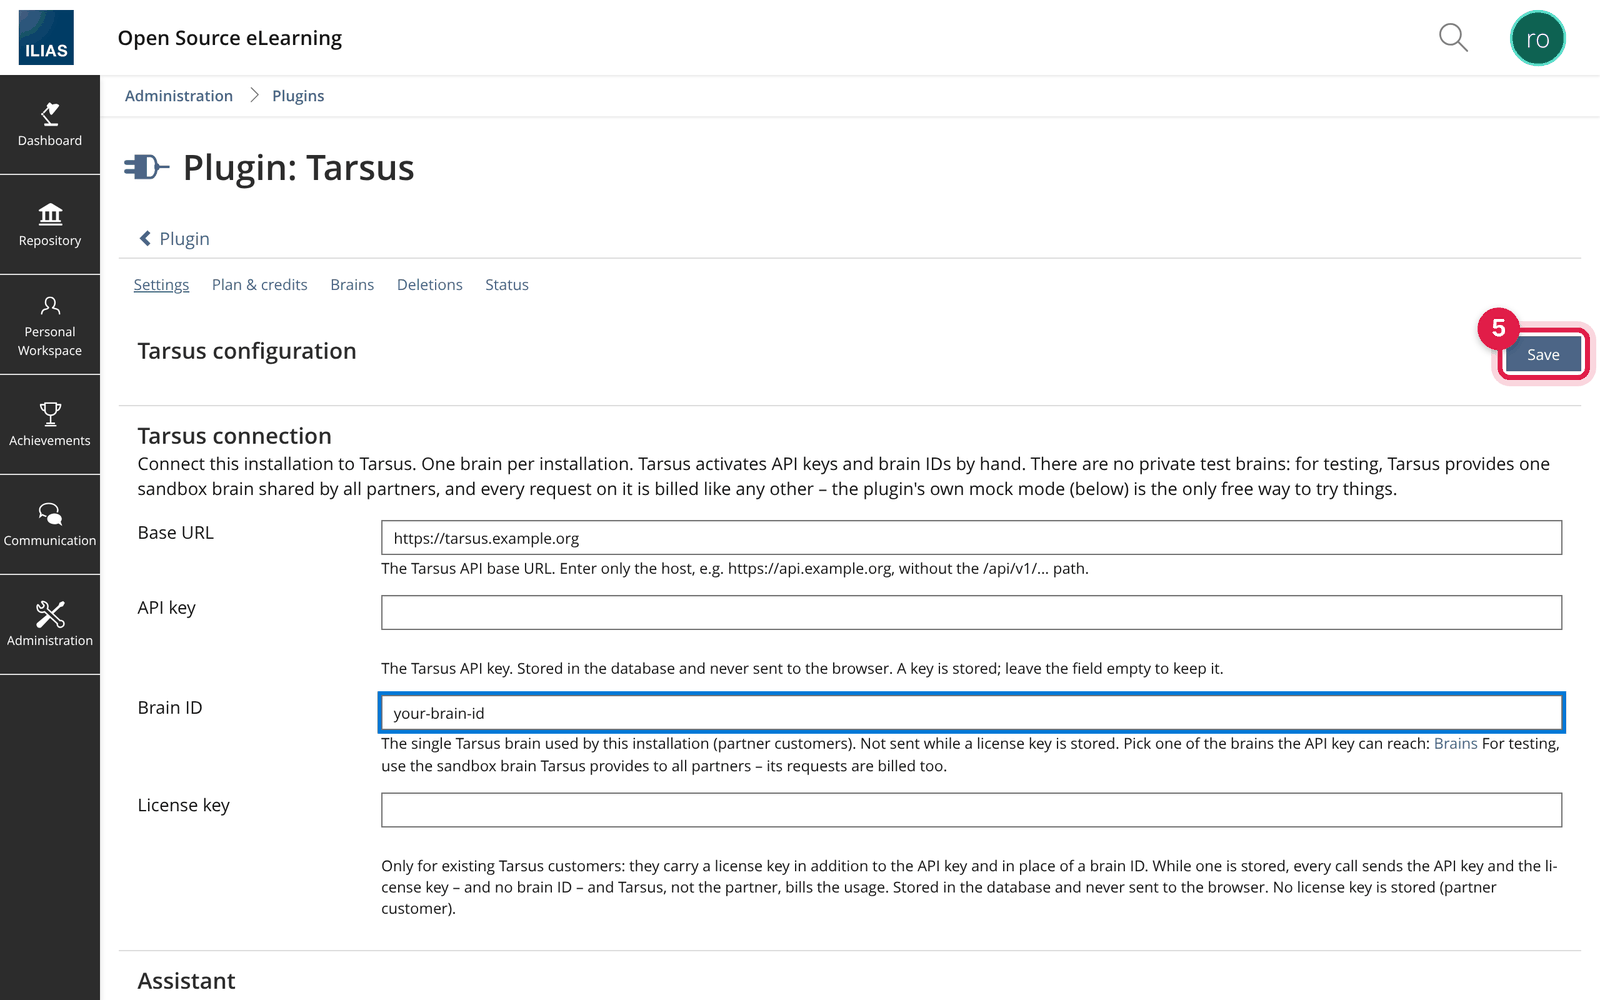
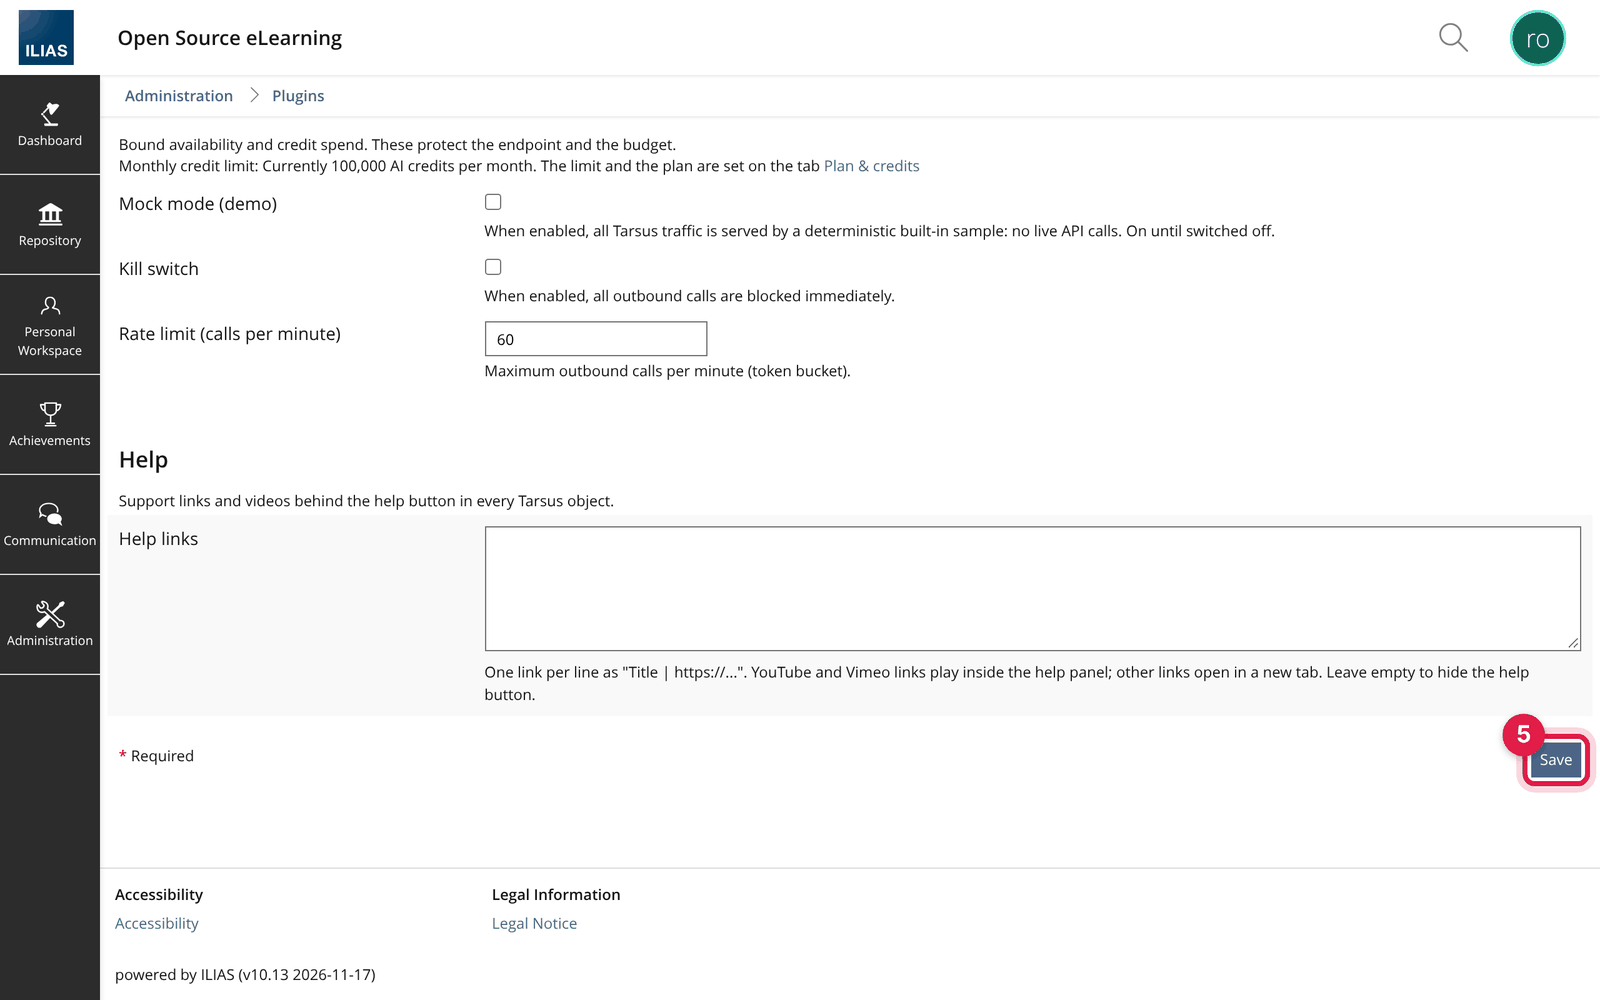
Version 2.2.0: changelog, README, guide pictures; the class loader covers the new classes
- plugin.php: version 2.2.0. CHANGELOG: the 2.2.0 section and the
  missing link references of 2.1.2 and 2.2.0.
- src/autoload.php: the plugin's own class loader - the safety net for
  files that arrive before "composer du" rebuilds ILIAS's class map -
  now also loads the plugin's ILIAS classes in classes/, among them the
  new upload handler and stakeholder of the assistant's picture. Without
  it, an update copied without "composer du" broke the plugin
  configuration ("Sorry, an error occurred") and Plan & credits (HTTP
  500); with it, every page works and only the picture field waits for
  "composer du". Class names other than letters and digits are refused.
- README: guide steps 9, 10 and 15 point to Save at the end of the form
  (ILIAS 11 and 12 show it only there); two new pictures for Save on
  Plan & credits and in the object's settings; the pictures of the
  changed forms retaken on ILIAS 10 (placeholders only, no usage
  figures). The coach's confirmation dialogs and Esc under
  Accessibility, deleted accounts and PRIVACY.md under Data and
  privacy, "composer du" when updating by hand.

Checked: update from the published 2.1.2 zip to 2.2.0 on ILIAS 9, 10,
11 and 12 - first without "composer du" (configuration, plan, object
settings, coach and reset work; the picture field appears after
"composer du"), then "composer du", Update and Refresh Languages
(database at 2.2.0, no PHP messages from the plugin's files). PHPStan
[…]

diff --git a/src/autoload.php b/src/autoload.php
@@ -26,4 +26,20 @@ if (!defined('TARSUS_ILIAS_AUTOLOAD')) {
             require_once $file;
         }
     });
+
+    // The same safety net for the plugin's ILIAS classes in classes/
+    // (class.ilTarsus*.php, class.ilObjTarsus*.php).
+    spl_autoload_register(static function (string $class): void {
+        if (strncmp($class, 'ilTarsus', 8) !== 0 && strncmp($class, 'ilObjTarsus', 11) !== 0) {
+            return;
+        }
+        $letters = 'abcdefghijklmnopqrstuvwxyzABCDEFGHIJKLMNOPQRSTUVWXYZ0123456789';
+        if (strspn($class, $letters) !== strlen($class)) {
+            return;
+        }
+        $file = dirname(__DIR__) . '/classes/class.' . $class . '.php';
+        if (is_file($file)) {
+            require_once $file;
+        }
+    });
 }

diff --git a/plugin.php b/plugin.php
@@ -12,7 +12,7 @@
 $id = 'xtar';
 
 // Plugin version.
-$version = '2.1.2';
+$version = '2.2.0';
 
 // ILIAS releases this version runs on.
 $ilias_min_version = '9.0';

diff --git a/README.md b/README.md
@@ -240,17 +240,19 @@ Everything from here happens in your web browser.
 
 > You are an existing Tarsus customer and got a *license key*? Put it into **License key**, just below, and leave the brain ID empty.
 
-**8.** Scroll down a little and remove the tick at **Mock mode (demo)** (4) *(Mock-Modus (Demo))*. While it is ticked, the coach only shows sample answers.
+**8.** Scroll down and remove the tick at **Mock mode (demo)** (4) *(Mock-Modus (Demo))*. While it is ticked, the coach only shows sample answers.
 
 ![Remove the tick at Mock mode](docs/screenshots/guide/b08_demo_off_save.png)
 
-**9.** Scroll back up and click **Save** (5) *(Speichern)*.
+**9.** Click **Save** (5) *(Speichern)* at the end of the form.
 
-![Save](docs/screenshots/guide/b08b_save.png)
+![Save at the end of the form](docs/screenshots/guide/b08b_save.png)
 
-**10.** Click **Plan & credits** (1) *(Plan & Credits)*, choose the package of your Tarsus contract (2) and click **Save** (3).
+**10.** Click **Plan & credits** (1) *(Plan & Credits)* and choose the package of your Tarsus contract (2). Then click **Save** (3) at the end of the form.
 
 ![Choose the package](docs/screenshots/guide/b09_plan.png)
+
+![Save at the end of the form](docs/screenshots/guide/b09b_save.png)
 
 **11.** Click **Status** (1), then **Test connection** (2) *(Verbindung testen)*. A green message (3) means: Tarsus is connected. A red message? See [If something does not work](#if-something-does-not-work).
 
@@ -270,9 +272,11 @@ The plugin is ready. Now give a course its coach.
 
 ![Name, then Add Tarsus](docs/screenshots/guide/b13_title.png)
 
-**15.** Click **Settings** (1) *(Einstellungen)*, tick **Online** (2) and click **Save** (3). Learners cannot see the coach until you do this.
+**15.** Click **Settings** (1) *(Einstellungen)* and tick **Online** (2). Then click **Save** (3) at the end of the form. Learners cannot see the coach until you do this.
 
 ![Switch it online](docs/screenshots/guide/b14_online.png)
+
+![Save at the end of the form](docs/screenshots/guide/b14b_save.png)
 
 **16.** Click **Materials** (1) *(Materialien)*. You see the files, links and pages of the course. Click **Index** (2) *(Indexieren)* next to each one the coach should learn from.
 
@@ -306,7 +310,7 @@ In ILIAS 9 the file is `cron/cron.php` instead of `cli/cron.php`. Without the jo
 
 ## Updating
 
-1. Run the command from [part 1](#part-1--put-the-plugin-on-the-server) again. It keeps the version you have in `/tmp` and puts the newest one in its place.
+1. Run the command from [part 1](#part-1--put-the-plugin-on-the-server) again. It keeps the version you have in `/tmp` and puts the newest one in its place. Updating by hand? Do steps 1 to 4 under *by hand* in part 1 again – `composer du` (step 4) belongs to every update.
 2. In ILIAS, open **Administration › Extending ILIAS › Plugins**, click the small arrow next to **Tarsus** and choose **Update** *(Aktualisieren)*. Click the arrow again and choose **Refresh Languages** *(Sprachen neu laden)*.
 
 Your settings, the indexed material and the learners' figures are kept. The [changelog](CHANGELOG.md) lists what changed in each version.
@@ -401,7 +405,7 @@ The coach works **without a mouse** and **with screen readers** (NVDA, JAWS, Voi
 | <kbd>Shift</kbd>+<kbd>Enter</kbd> | A new line in a question. |
 | <kbd>Space</kbd> | Presses a button, ticks a checkbox. |
 | Arrow keys | Choose an answer option of a question. |
-| <kbd>Esc</kbd> | Closes a side panel, a picture or the help. In the input field: drops the *Ask about this* reference. |
+| <kbd>Esc</kbd> | Closes a side panel, a picture or the help; in a confirmation dialog, it cancels. In the input field: drops the *Ask about this* reference. |
 
 **What a screen reader says**
 
@@ -412,6 +416,7 @@ The coach works **without a mouse** and **with screen readers** (NVDA, JAWS, Voi
 - **Check** puts the focus on the verdict – "Correct.", "Not correct." or "Partly correct: 60 %" – and reads the feedback, the experience points and the result. Right and wrong are words and a ✓ or ✗, never a colour alone. Pressing **Check** with nothing chosen says so and puts the focus on the first open field.
 - In a learning unit, the focus goes to the slide's title and the slide is read. **Next** says "Slide 2 of 5" and reads the slide; the focus stays on the button.
 - Side panels (sources, settings, evaluation, history) are dialogs: the focus moves in, <kbd>Tab</kbd> stays inside, <kbd>Esc</kbd> closes them and the focus returns to the button that opened them. Pictures and enlarged pages are dialogs too.
+- Before a step that cannot be undone – ending a running live conversation by switching the mode, removing material on the *Materials* tab – the coach asks in a dialog: the focus starts on **Cancel** *(Abbrechen)*, <kbd>Tab</kbd> stays inside, <kbd>Esc</kbd> cancels and the focus returns to the button. **Reset chat history** asks in ILIAS's own confirmation dialog.
 - While Tarsus answers, the input field keeps the focus; you never lose your place.
 
 **For teachers:** switch on **Accessible content** *(Barrierefreie Inhalte)* in the object's settings. Tarsus then describes in words what pictures, diagrams and simulations show, so learners who cannot see them get the same information.
@@ -440,8 +445,10 @@ Found something that does not work with your screen reader? Please [open an issu
 - The plugin talks to the brain over HTTPS only; every call carries the installation's API key and brain ID – or, for an existing Tarsus customer, the API key and the license key – and passes the guardrail pipeline (kill switch → circuit breaker, which opens after five consecutive outages for five minutes → monthly credit limit → rate limit). Refusals from Tarsus are shown with their own clear message and do not trip the breaker; nothing is retried blindly.
 - The plugin keeps its data in seven tables (`rep_robj_xtar_*`): plugin configuration (including the plan, the limit and the brain's usage figure), the settings of each object, the index map of the material sent to the brain, the inclusions per object, the latest figures per learner, a log of the requests sent, and the guardrail state. Uninstalling the plugin drops them.
 - Learners are sent to the brain under a **pseudonym** – an HMAC of the ILIAS user id with a secret generated at installation – together with their display name and interface language. The conversation itself lives in the brain. *Reset chat history* erases the learner's own conversation in the brain and the local figures. A spoken question is sent to Tarsus as audio to be transcribed.
+- When an ILIAS user account is deleted, the background job ([Keep material up to date automatically](#keep-material-up-to-date-automatically)) erases the account's conversations in the brain and its figures in the plugin, and removes the user id from the log of requests (the counts stay, without the person).
 - Interactive pages and the live call page from the brain run sandboxed (see above) and are never stored in ILIAS beyond the conversation history the brain returns.
 - The coach does not search the internet: it generates explanations and answers exclusively from the documents your organisation provides. Tarsus stores your content at Microsoft Azure in Germany, GDPR-compliant – and the entire stack can be deployed on-premise on request ([Getting access](#getting-access)).
+- [PRIVACY.md](PRIVACY.md) lists the personal data the plugin keeps, shows and deletes, following ILIAS's guide for it.
 
 ## Development
 

diff --git a/CHANGELOG.md b/CHANGELOG.md
@@ -3,6 +3,27 @@
 All notable changes to the Tarsus plugin for ILIAS. The plugin follows
 [semantic versioning](https://semver.org/); the version is in `plugin.php`.
 
+## [2.2.0] – 2026-11-25
+
+The plugin follows ILIAS's development rules: forms, dialogs and buttons of ILIAS's UI framework, the coach's script as checked ES6 modules, calls to Tarsus through ILIAS's HTTP connection, uploads through ILIAS's upload service. Learners and teachers keep every function; a few screens look like the rest of ILIAS now.
+
+### Changed
+
+- **Settings** of the AI trainer, the **plugin configuration** and **Plan & credits** use ILIAS's standard forms (UI framework) with the same fields, defaults, locks and checks. A wrong entry is marked at its field. Lowering the monthly limit still asks first.
+- **Reset chat history** is a button above the coach that opens ILIAS's confirmation dialog; no extra page.
+- Ending a live conversation by switching the mode, and removing material, ask in a dialog of the coach instead of the browser's pop-up: the focus starts on *Cancel*, <kbd>Tab</kbd> stays inside, <kbd>Esc</kbd> cancels.
+- The assistant's picture is uploaded with ILIAS's file field; ILIAS keeps the upload until the configuration is saved and removes it afterwards.
+- Spoken questions go through ILIAS's upload service, so the installation's rules for uploads (blocked file types, virus scanner) apply. If an installation does not accept audio files, the learner is told so.
+- Calls to Tarsus use ILIAS's HTTP connection (ilCurlConnection) with ILIAS's proxy settings.
+- When an ILIAS user account is deleted, the scheduled task also erases the account's conversations in the brain and its figures in the plugin (see [PRIVACY.md](PRIVACY.md)).
+
+### For developers
+
+- The coach's script is written as ES6 modules in `templates/js/src`, checked with ILIAS's ESLint configuration (no findings) and bundled with Rollup into `templates/js/dist/tarsus.js`.
+- Exceptions derive from `ilException`, log entries go to ILIAS's log (component `xtar`), requests are read through ILIAS's request wrapper, the reload of the voices is protected by ILIAS's token, unused language entries are removed, and a [PRIVACY.md](PRIVACY.md) describes the personal data the plugin keeps.
+
+To update, run the installer command again – it also runs `composer du`, which ILIAS needs for this version's new upload of the assistant's picture – then click **Update** and **Refresh Languages** in the plugin list (*Administration › Extending ILIAS › Plugins*). Your settings, material and learners' figures are kept.
+
 ## [2.1.2] – 2026-11-25
 
 A security update: please install it.
@@ -187,6 +208,8 @@ First release for ILIAS 9, 10 and 11.
 - Default permissions seeded on first activation for course and group roles.
 - English and German.
 
+[2.2.0]: https://github.com/tarsus-ai/ilias-ai-trainer/releases/tag/v2.2.0
+[2.1.2]: https://github.com/tarsus-ai/ilias-ai-trainer/releases/tag/v2.1.2
 [2.1.1]: https://github.com/tarsus-ai/ilias-ai-trainer/releases/tag/v2.1.1
 [2.1.0]: https://github.com/tarsus-ai/ilias-ai-trainer/releases/tag/v2.1.0
 [2.0.1]: https://github.com/tarsus-ai/ilias-ai-trainer/releases/tag/v2.0.1
